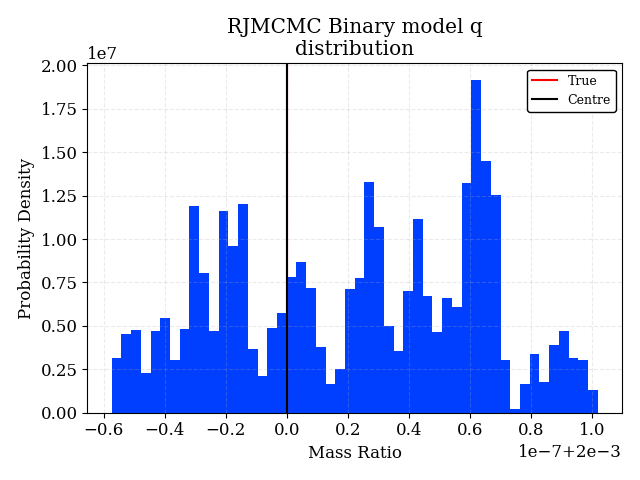
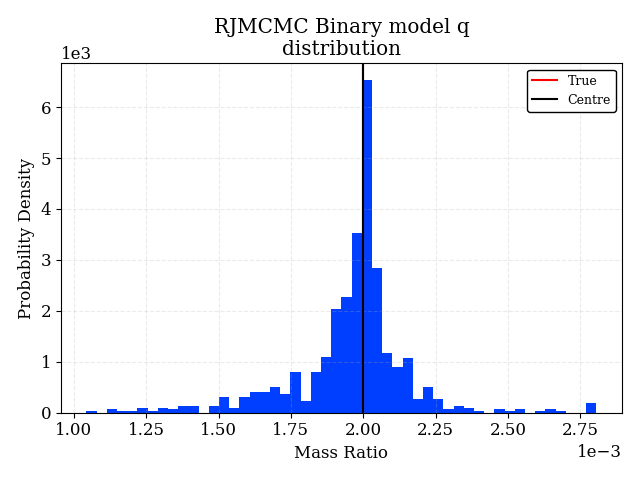
better resampling

diff --git a/Functions.py b/Functions.py
@@ -229,11 +229,15 @@ def RJCenteredProposal(m, mProp, theta, covariance, centers):
             #print(u)
             #np.random.shuffle(u)
             #print(u)
+
             #u = np.multiply(np.random.choice(l, 4), (1--0)*np.random.random((4))+0.5)
-            u = np.multiply(np.random.choice(l, 4), np.random.choice([1, -1], 4))
-            u = centers[mProp-1][3:] + np.multiply(centers[mProp-1][3:], u)
+            #u = np.multiply(np.random.choice(l, 4), np.random.choice([1, -1], 4))
+            #u = centers[mProp-1][3:] + np.multiply(centers[mProp-1][3:], u)
 
             #u = centers[mProp-1][3:] + np.multiply(centers[mProp-1][3:], np.random.choice([1, -1], 1) * np.average(l))
+
+            u = (np.max(l)-np.min(l))*np.random.random((4))+np.min(l)
+            u = centers[mProp-1][3:] + np.multiply(centers[mProp-1][3:], u)
 
             thetaProp=np.concatenate(((l * centers[mProp-1][0:3]+centers[mProp-1][0:3]), u))
 

diff --git a/ReversibleJump.py b/ReversibleJump.py
@@ -47,7 +47,7 @@ plt.clf()
 
 
 # Generate "Synthetic" Lightcurve
-t = Model.set_times(n_epochs = 100)
+t = Model.set_times(n_epochs = 40)
 error = Model.magnification(t)/50 + 0.1
 Data = mm.MulensData(data_list=[t, Model.magnification(t), error], phot_fmt='flux', chi2_fmt='flux')
 
